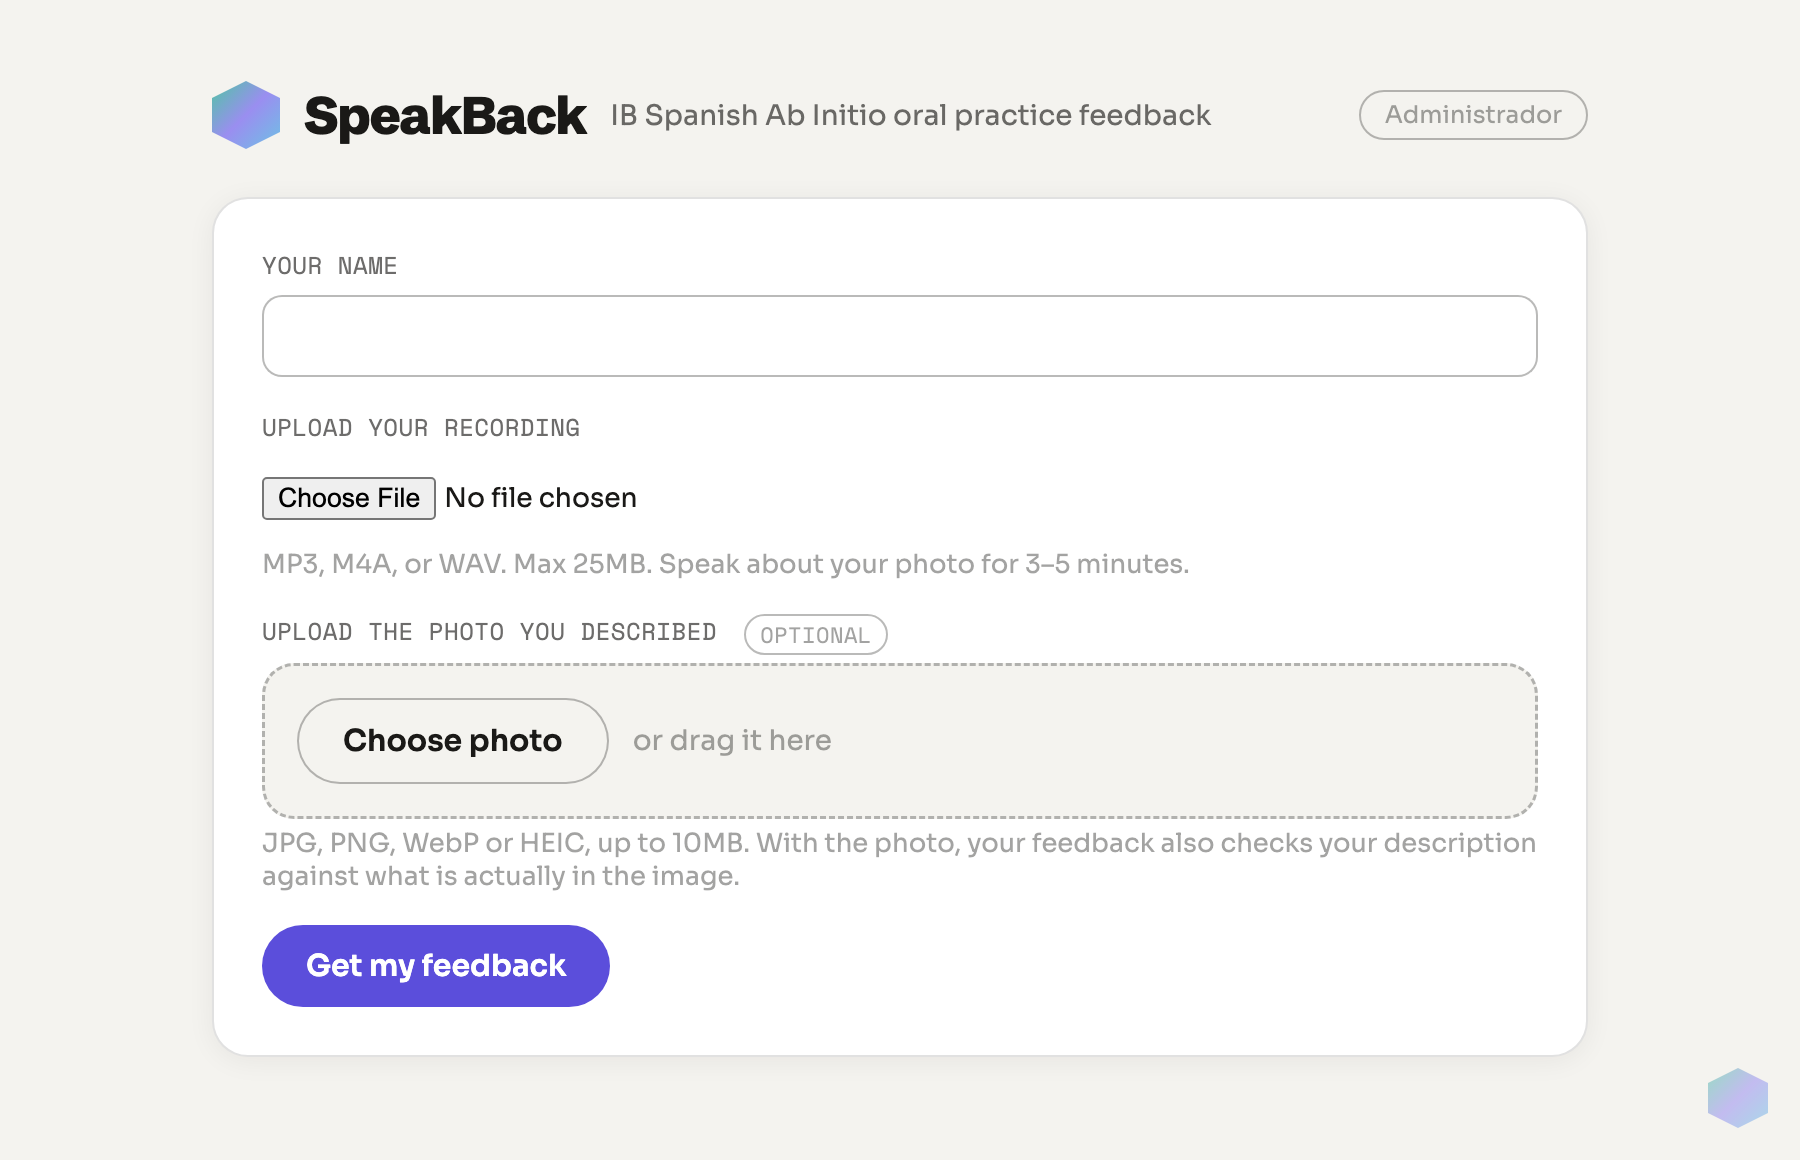
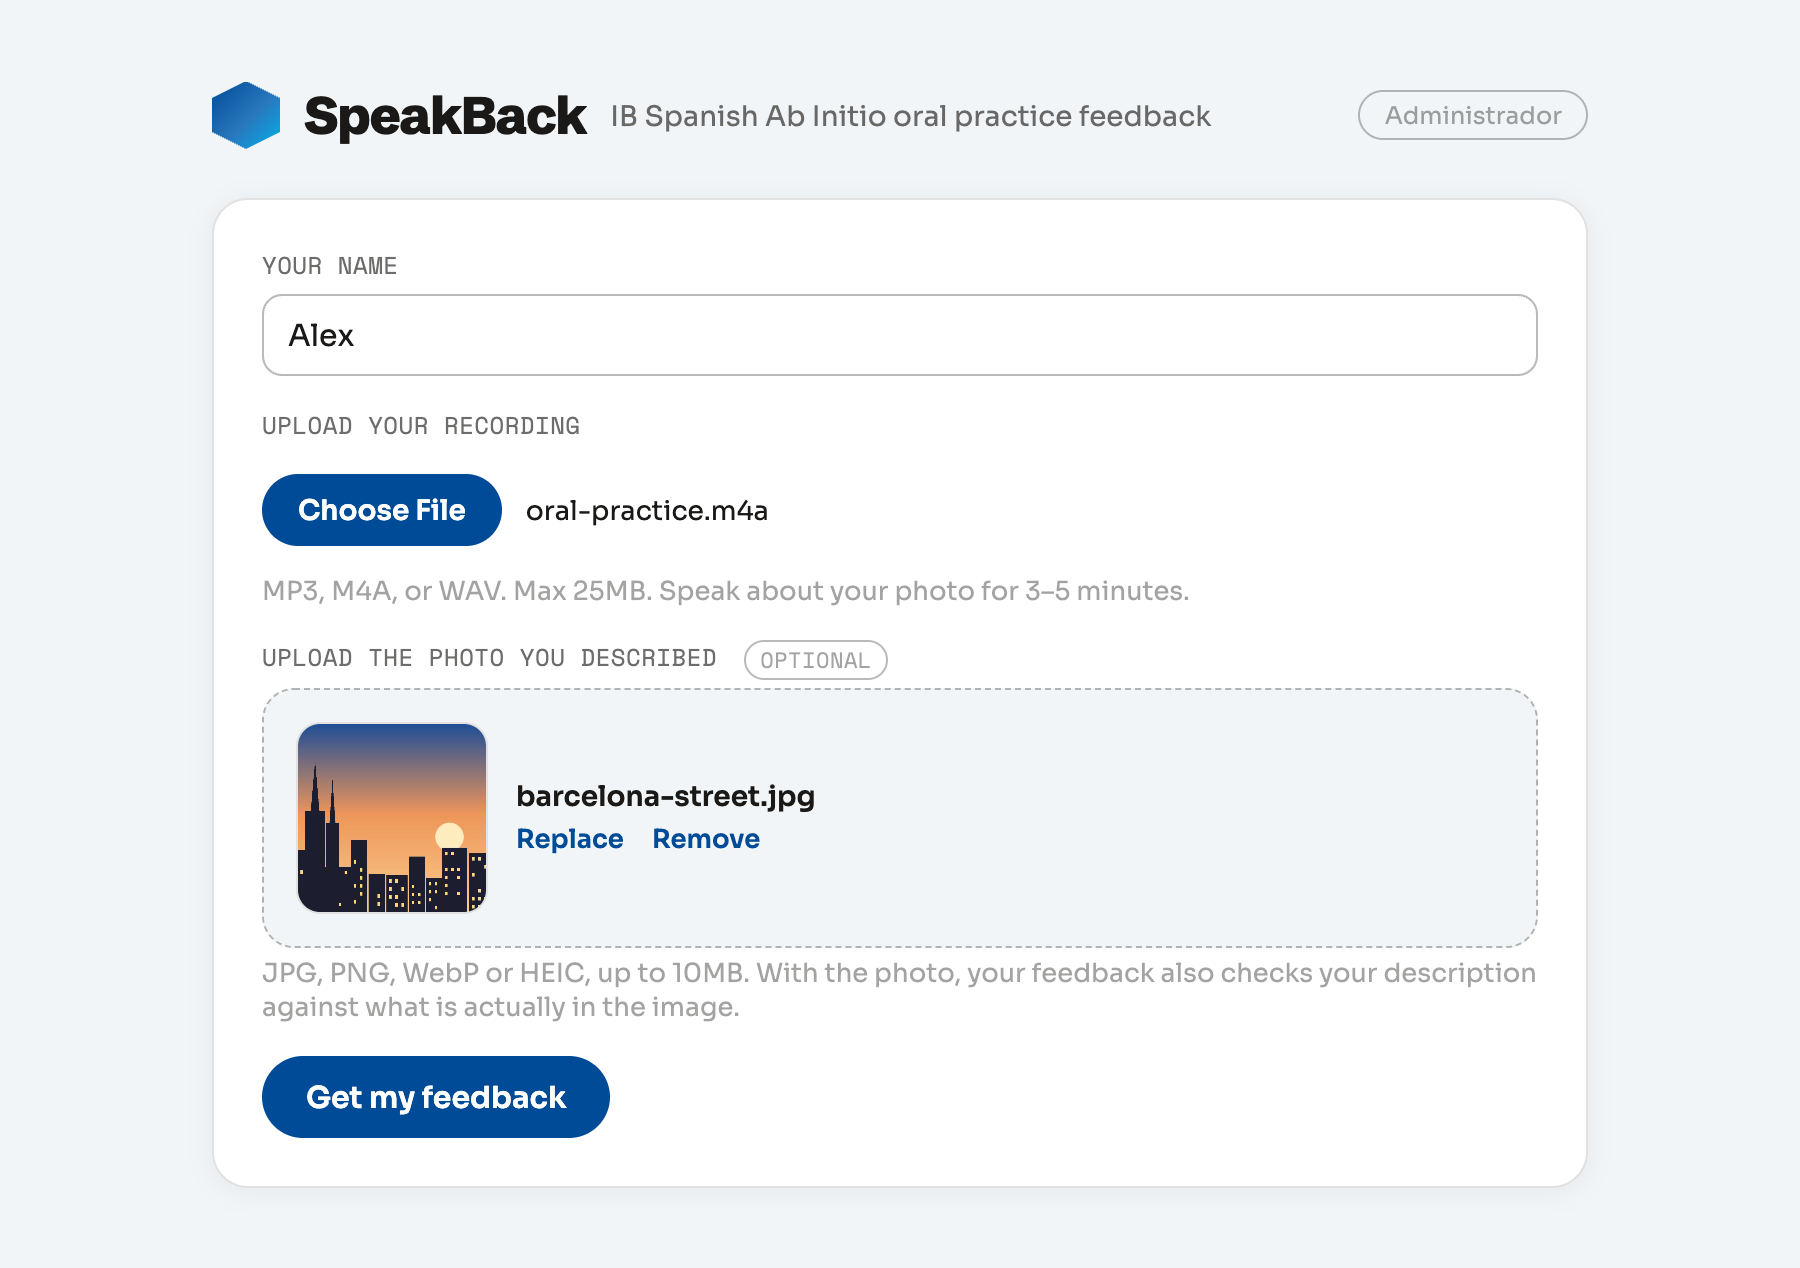
Fix blank/split PDF downloads; apply UNIS Hanoi colour scheme
- PDF download: pass scrollX/scrollY 0 to html2canvas. Without it every page of
  the PDF was blank whenever the window was scrolled, which is always the case on
  a long result. Add a pagebreak rule so table rows, list items and headings move
  to the next page instead of being sliced mid-line.
- Recolour the site with the UNIS Hanoi palette read from unishanoi.org
  (blue #004b98, burgundy #8e1738, orange #ed7004, cooler grey background) via CSS
  tokens, renaming --violet to --brand. Dark mode uses a lighter blue and a
  separate --link token so buttons and link text stay readable.
- "Choose photo" and the native "Choose File" button now use the primary button
  style so all three buttons match.
- Refresh the README screenshot (filled form with photo preview) and note the
  palette and PDF constraints in CLAUDE.md.

diff --git a/public/style.css b/public/style.css
@@ -1,10 +1,13 @@
 :root {
-  --bone: #F4F3EF;
+  /* UNIS Hanoi palette, read from unishanoi.org: blue #004b98, burgundy #8e1738, orange #ed7004 */
+  --bone: #F2F5F7;
   --cell: #FFFFFF;
   --ink: #1A1917;
-  --violet: #5B4EDB;
-  --violet-dark: #4A3FC0;
-  --honey: #E8A13A;
+  --brand: #004b98;
+  --brand-dark: #003a75;
+  --link: #004b98;
+  --burgundy: #8e1738;
+  --honey: #ed7004;
   --soft: rgba(26, 25, 23, .64);
   --dim: rgba(26, 25, 23, .40);
   --line: rgba(26, 25, 23, .13);
@@ -22,6 +25,9 @@
 
 @media (prefers-color-scheme: dark) {
   :root:not([data-theme="light"]) {
+    --brand: #2977bc;
+    --brand-dark: #1f69a8;
+    --link: #7fb2ea;
     --bone: #171614;
     --cell: #211F1C;
     --ink: #F0EEE8;
@@ -33,6 +39,9 @@
 }
 
 :root[data-theme="dark"] {
+  --brand: #2977bc;
+  --brand-dark: #1f69a8;
+  --link: #7fb2ea;
   --bone: #171614;
   --cell: #211F1C;
   --ink: #F0EEE8;
@@ -108,7 +117,7 @@ header.brand {
   height: 34px;
   flex: none;
   clip-path: var(--hx);
-  background: linear-gradient(135deg, #4FC6A2, #9A8EF0 50%, #6EC1E4);
+  background: linear-gradient(135deg, #004b98, #2977bc 55%, #00b1eb);
 }
 
 header.brand h1 {
@@ -178,8 +187,8 @@ input[type="text"]:focus,
 input[type="password"]:focus,
 select:focus {
   outline: none;
-  border-color: var(--violet);
-  box-shadow: 0 0 0 2px var(--violet), 0 0 0 8px rgba(122, 106, 232, .13);
+  border-color: var(--brand);
+  box-shadow: 0 0 0 2px var(--brand), 0 0 0 8px rgba(41, 119, 188, .22);
 }
 
 input[type="file"] {
@@ -188,12 +197,29 @@ input[type="file"] {
   font-family: 'Sora', system-ui, sans-serif;
 }
 
+input[type="file"]::file-selector-button {
+  appearance: none;
+  border: none;
+  background: var(--brand);
+  color: #fff;
+  font-family: 'Sora', system-ui, sans-serif;
+  font-size: 14px;
+  font-weight: 600;
+  padding: 9px 18px;
+  margin-right: 12px;
+  border-radius: 999px;
+  cursor: pointer;
+  transition: background .2s;
+}
+
+input[type="file"]::file-selector-button:hover { background: var(--brand-dark); }
+
 .field { margin-bottom: 16px; }
 
 button {
   appearance: none;
   border: none;
-  background: var(--violet);
+  background: var(--brand);
   color: #fff;
   font-family: 'Sora', system-ui, sans-serif;
   font-size: 15px;
@@ -204,11 +230,11 @@ button {
   transition: background .2s;
 }
 
-button:hover { background: var(--violet-dark); }
+button:hover { background: var(--brand-dark); }
 button:disabled { background: var(--line2); cursor: not-allowed; }
 button:focus-visible {
   outline: none;
-  box-shadow: 0 0 0 2px var(--violet), 0 0 0 8px rgba(122, 106, 232, .13);
+  box-shadow: 0 0 0 2px var(--brand), 0 0 0 8px rgba(41, 119, 188, .22);
 }
 
 button.secondary {
@@ -243,7 +269,7 @@ button.secondary:hover { background: var(--line); }
   width: 16px;
   height: 16px;
   border: 2px solid var(--line);
-  border-top-color: var(--violet);
+  border-top-color: var(--brand);
   border-radius: 50%;
   animation: spin 0.8s linear infinite;
 }
@@ -266,10 +292,10 @@ button.secondary:hover { background: var(--line); }
 }
 
 #result blockquote {
-  border-left: 3px solid var(--violet);
+  border-left: 3px solid var(--brand);
   margin: 0;
   padding: 8px 14px;
-  background: rgba(91, 78, 219, .06);
+  background: rgba(0, 75, 152, .06);
   border-radius: 0 12px 12px 0;
   font-size: 14px;
 }
@@ -302,12 +328,12 @@ th {
 }
 
 tr.row-link { cursor: pointer; }
-tr.row-link:hover { background: rgba(91, 78, 219, .04); }
+tr.row-link:hover { background: rgba(0, 75, 152, .04); }
 
 .pill {
   display: inline-block;
-  background: rgba(91, 78, 219, .12);
-  color: var(--violet-dark);
+  background: rgba(0, 75, 152, .12);
+  color: var(--link);
   padding: 3px 12px;
   border-radius: 999px;
   font-family: "Space Mono", monospace;
@@ -362,8 +388,8 @@ tr.row-link:hover { background: rgba(91, 78, 219, .04); }
   width: 100%;
   max-width: 460px;
   background:
-    radial-gradient(circle at 100% 0%, rgba(232, 161, 58, .12), transparent 55%),
-    radial-gradient(circle at 0% 100%, rgba(79, 198, 162, .12), transparent 55%),
+    radial-gradient(circle at 100% 0%, rgba(142, 23, 56, .10), transparent 55%),
+    radial-gradient(circle at 0% 100%, rgba(0, 75, 152, .12), transparent 55%),
     var(--cell);
   border-radius: 22px;
   padding: 26px;
@@ -388,7 +414,7 @@ tr.row-link:hover { background: rgba(91, 78, 219, .04); }
   font-size: 11px;
   letter-spacing: 0.04em;
   text-transform: uppercase;
-  color: var(--violet);
+  color: var(--link);
 }
 
 .quiz-skip {
@@ -442,8 +468,8 @@ tr.row-link:hover { background: rgba(91, 78, 219, .04); }
 }
 
 .quiz-option:hover:not(:disabled) {
-  border-color: var(--violet);
-  background: rgba(91, 78, 219, .08);
+  border-color: var(--brand);
+  background: rgba(0, 75, 152, .08);
   transform: translateY(-1px) scale(1.01);
 }
 
@@ -580,13 +606,13 @@ tr.row-link:hover { background: rgba(91, 78, 219, .04); }
 }
 
 .hexdev-row output {
-  color: var(--violet);
+  color: var(--link);
   font-weight: 700;
 }
 
 .hexdev-row input[type="range"] {
   width: 100%;
-  accent-color: var(--violet);
+  accent-color: var(--brand);
 }
 
 .hexdev-reset {
@@ -632,7 +658,7 @@ tr.row-link:hover { background: rgba(91, 78, 219, .04); }
   width: 100%;
   height: 100%;
   clip-path: var(--hx);
-  background: linear-gradient(135deg, #4FC6A2, #9A8EF0 50%, #6EC1E4);
+  background: linear-gradient(135deg, #004b98, #2977bc 55%, #00b1eb);
 }
 
 .usage-popover {
@@ -682,11 +708,11 @@ tr.row-link:hover { background: rgba(91, 78, 219, .04); }
 }
 
 .agreement-table .gap-slim {
-  background: rgba(232, 161, 58, .12);
+  background: rgba(237, 112, 4, .12);
 }
 
 .agreement-table .gap-wide {
-  background: rgba(232, 161, 58, .26);
+  background: rgba(237, 112, 4, .26);
 }
 
 .usage-popover .usage-total {
@@ -738,8 +764,8 @@ tr.row-link:hover { background: rgba(91, 78, 219, .04); }
 }
 
 .photo-drop.dragging {
-  border-color: var(--violet);
-  background: rgba(91, 78, 219, .06);
+  border-color: var(--brand);
+  background: rgba(0, 75, 152, .06);
 }
 
 .photo-empty {
@@ -786,7 +812,7 @@ tr.row-link:hover { background: rgba(91, 78, 219, .04); }
 
 button.link-btn {
   background: none;
-  color: var(--violet);
+  color: var(--link);
   padding: 0;
   font-size: 13px;
   font-weight: 600;

diff --git a/public/app.js b/public/app.js
@@ -158,7 +158,7 @@ function pickQuizQuestions(n) {
 const SPARK_COLORS = [
   "var(--m-strategic)",
   "var(--honey)",
-  "var(--violet)",
+  "var(--brand)",
   "var(--m-dialogic)",
   "var(--m-reflective)",
   "var(--m-design)",
@@ -324,7 +324,12 @@ downloadBtn.addEventListener("click", () => {
     .set({
       margin: 12,
       filename: `SpeakBack_${safeName}.pdf`,
-      html2canvas: { scale: 2 },
+      // Ignore the page's scroll position: the button sits at the bottom of a long result, so the
+      // window is always scrolled when it is clicked, and html2canvas paints blank pages if it is not told to
+      // render from the top.
+      html2canvas: { scale: 2, scrollX: 0, scrollY: 0 },
+      // Move whole table rows, list items and headings to the next page instead of slicing through them.
+      pagebreak: { mode: ["css", "legacy"], avoid: ["tr", "li", "h2", "h3", "h4"] },
       jsPDF: { unit: "pt", format: "a4" },
     })
     .from(resultEl)

diff --git a/public/index.html b/public/index.html
@@ -36,7 +36,7 @@
           <div class="photo-drop" id="photo-drop">
             <input type="file" id="photo" name="photo" accept="image/*,.heic,.heif" class="visually-hidden" />
             <div class="photo-empty" id="photo-empty">
-              <button type="button" class="secondary" id="photo-btn">Choose photo</button>
+              <button type="button" id="photo-btn">Choose photo</button>
               <span class="photo-or">or drag it here</span>
             </div>
             <div class="photo-preview hidden" id="photo-preview">

diff --git a/CLAUDE.md b/CLAUDE.md
@@ -44,7 +44,7 @@ Node/Express app, Neon Postgres, deployed on Render (https://speakback.onrender.
 | `server.js` | Express routes, upload validation, admin auth, usage/cost tracking. |
 | `db.js` | Neon (HTTP driver, so school networks blocking :5432 still work). |
 | `public/` | Static frontend: `index.html`, `app.js` (upload form, photo dropzone, verb mini-game during the wait), `admin.*`, `style.css`. |
-| `design.md` | Design system tokens (Hexly-derived: bone/violet/honey, hexagon motif, Schibsted Grotesk / Sora / Space Mono). Reuse the CSS custom properties; support light + dark. |
+| `design.md` | Original Hexly design-system reference (historical). **The live site uses the UNIS Hanoi palette**, set as CSS tokens at the top of `public/style.css`: `--brand` #004b98 (blue), `--burgundy` #8e1738, `--honey` #ed7004, cooler grey `--bone` #F2F5F7; dark mode swaps in a lighter blue (`--brand` #2977bc, `--link` #7fb2ea) so buttons and link text stay readable. Change colours by editing the tokens, not individual rules. |
 
 ## Grading pipeline (`gradeRecording` in `gemini.js`)
 
@@ -83,6 +83,12 @@ node --check gemini.js server.js public/app.js
 - Never print or commit `.env`.
 
 ## Known gaps / open items
+
+- **PDF download** (`html2pdf.js`, client-side) must keep `html2canvas: { scrollX: 0, scrollY: 0 }` and the
+  `pagebreak.avoid` rule in `public/app.js`. Without the scroll options every page is **blank** whenever the
+  window is scrolled (always the case on a long result); without `pagebreak` table rows are sliced mid-line.
+  Remaining limits: the PDF is an image (text not selectable), and html2canvas occasionally garbles a
+  wrapped italic line. A print-stylesheet / `window.print()` route would fix both if they matter.
 
 - **Calibration of v2 is partly untested.** The Criterion A/B1 descriptors transfer from the 55
   full-exam transcripts, but the "performance-level differentiators" were adapted to a monologue,
